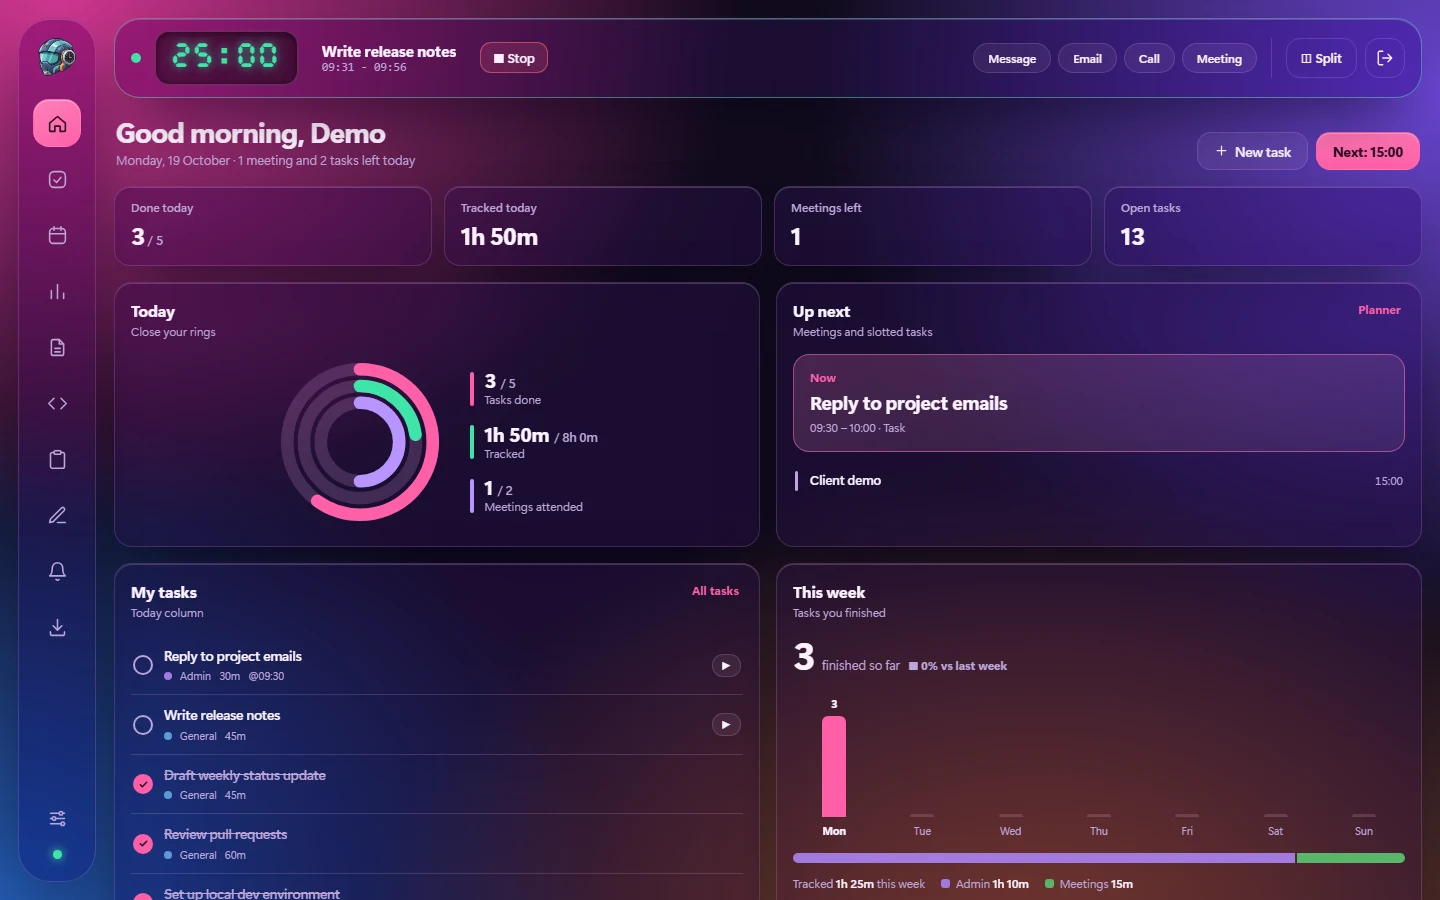
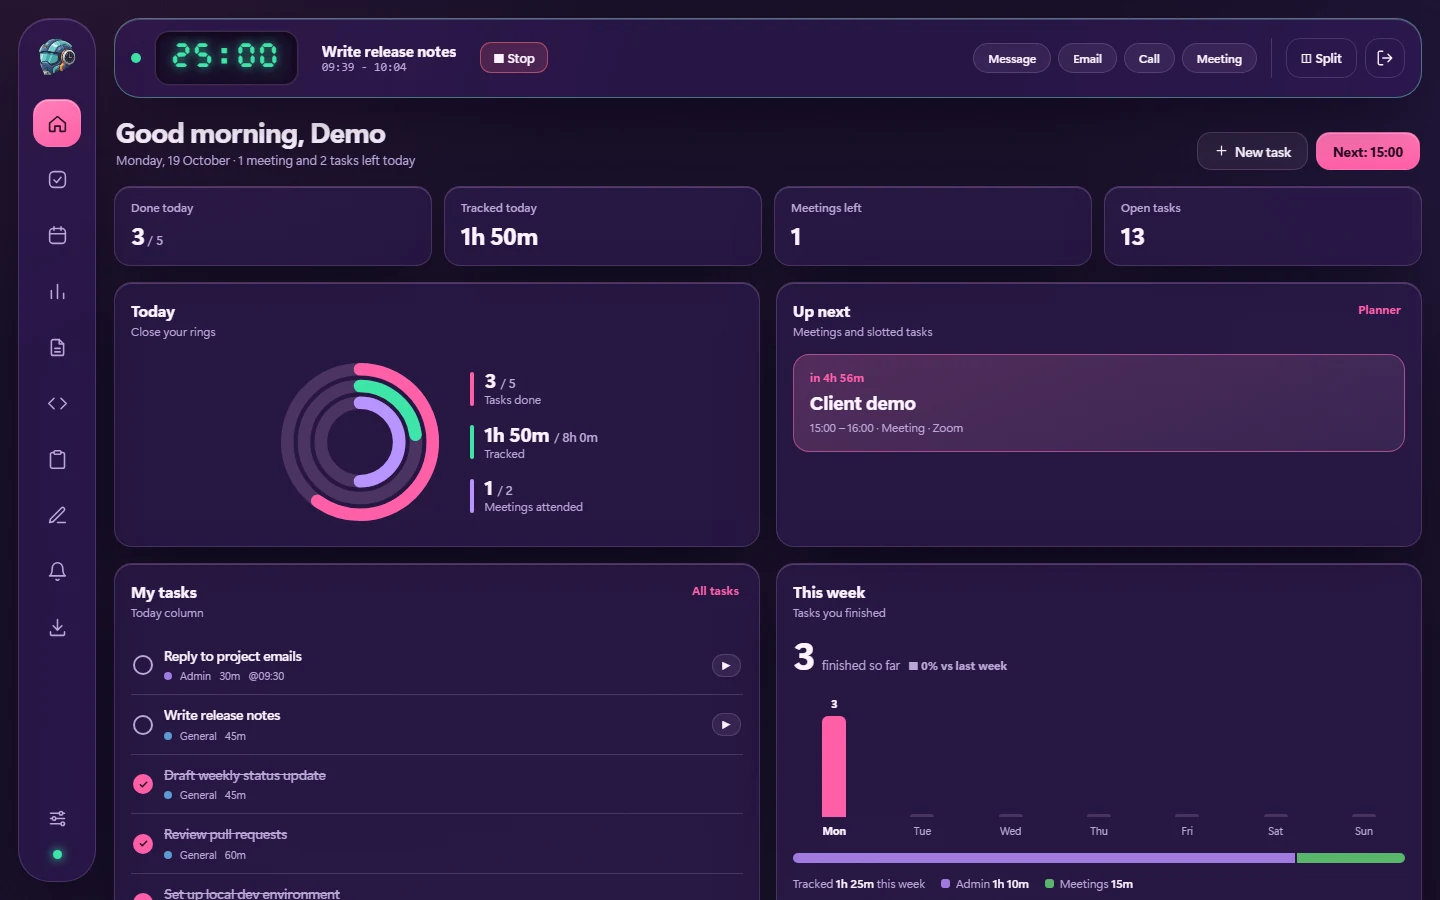
Bloom: plain deep-plum background, colour kept in the accent and charts
The glowing lights behind the page are gone (and with them the extra panel
frosting they needed); Bloom is now a flat plum background with the pink
accent, rings and charts carrying the colour. Gallery and changelog updated.

diff --git a/static/index.html b/static/index.html
@@ -65,15 +65,15 @@
   --shadow:0 24px 60px -24px rgba(0,0,0,.8);
 }
 [data-theme="bloom"]{
-  /* the colourful one: magenta, violet, blue and orange light behind deep-plum glass */
+  /* the colourful one: a plain deep-plum background, with the colour in the accent, rings and charts */
   color-scheme:dark;
-  --bg:#0b0518; --surface:rgba(38,18,66,.42); --surface-strong:rgba(26,12,50,.93);
+  --bg:#130a24; --surface:rgba(48,28,82,.62); --surface-strong:rgba(32,17,58,.94);
   --surface2:rgba(255,215,255,.075); --line:rgba(255,190,255,.17); --hi:rgba(255,220,255,.20);
   --text:#fcf2ff; --muted:#bca5d9; --accent:#ff5fa8; --accent-text:#2c0a1f;
   --cat-general:#7aa7ff; --cat-secops:#ff7a8a; --cat-change:#b794ff;
   --cal:#5a4aa6; --danger:#ff6b7f; --ok:#3ee6a8; --lcd-bg:rgba(0,0,0,.40);
-  --orb1:rgba(255,60,170,.80); --orb2:rgba(125,80,255,.80); --orb3:rgba(255,140,60,.60); --orb4:rgba(40,130,255,.64);
-  --shadow:0 24px 60px -24px rgba(8,0,24,.85);
+  --orb1:rgba(255,95,168,.07); --orb2:rgba(125,80,255,.07); --orb3:rgba(255,255,255,.02);
+  --shadow:0 24px 60px -24px rgba(6,0,18,.85);
 }
 [data-font="sans"]{ --ff:"Inter","SF Pro Display","Segoe UI Variable Display","Segoe UI",system-ui,-apple-system,Roboto,sans-serif; }
 [data-font="mono"]{ --ff:ui-monospace,"Cascadia Code","SF Mono",Menlo,Consolas,monospace; }
@@ -100,14 +100,6 @@ body::before{content:"";position:fixed;inset:0;z-index:-1;pointer-events:none;
     radial-gradient(60vmax 46vmax at 6% -6%, var(--orb1), transparent 62%),
     radial-gradient(52vmax 44vmax at 104% 16%, var(--orb2), transparent 62%),
     radial-gradient(70vmax 46vmax at 42% 112%, var(--orb3), transparent 62%),
-    var(--bg)}
-/* Bloom paints four larger, brighter lights than the other themes */
-body[data-theme="bloom"]::before{background:
-    url("/static/grain.svg"),
-    radial-gradient(72vmax 56vmax at 4% 0%, var(--orb1), transparent 66%),
-    radial-gradient(66vmax 58vmax at 100% 10%, var(--orb2), transparent 66%),
-    radial-gradient(72vmax 52vmax at 72% 108%, var(--orb3), transparent 66%),
-    radial-gradient(64vmax 52vmax at 0% 100%, var(--orb4), transparent 66%),
     var(--bg)}
 ::selection{background:color-mix(in srgb,var(--accent) 45%,transparent)}
 ::-webkit-scrollbar{width:10px;height:10px}
@@ -424,8 +416,6 @@ input.scrRename{font-size:12px;padding:1px 5px;width:120px;min-width:0}
 
 [data-theme="aurora"] option{background:#0f2028;color:#e8f4f6}
 [data-theme="bloom"] option{background:#1d0f36;color:#fcf2ff}
-/* the colour is strong enough that panels need their own frosting to stay readable */
-body[data-theme="bloom"] :is(.panel,.col,.stat,.filterBar,#timeline){-webkit-backdrop-filter:blur(18px) saturate(140%);backdrop-filter:blur(18px) saturate(140%)}
 
 /* ---- page headers, stat tiles, segmented controls (Dashboard / Tasks / Insights / Settings) ---- */
 .pageHead{display:flex;align-items:flex-end;gap:12px;flex-wrap:wrap;margin:2px 2px 16px}
@@ -654,8 +644,7 @@ main.split #dashGrid,main.split #insGrid{grid-template-columns:minmax(0,1fr)}
 .themeTile .pvbox{display:block;color:var(--text)}
 .themeTile .pv{display:block;position:relative;height:64px;
   background:radial-gradient(120% 90% at 0% 0%,var(--orb1),transparent 60%),radial-gradient(100% 90% at 100% 20%,var(--orb2),transparent 60%),
-    radial-gradient(120% 100% at 40% 120%,var(--orb3),transparent 60%),
-    radial-gradient(90% 90% at 0% 110%,var(--orb4,transparent),transparent 60%),var(--bg)}
+    radial-gradient(120% 100% at 40% 120%,var(--orb3),transparent 60%),var(--bg)}
 .themeTile .pv i{position:absolute;background:var(--surface);border:1px solid var(--line)}
 .themeTile .pv .r{left:7px;top:7px;bottom:7px;width:12px;border-radius:7px}
 .themeTile .pv .c1{left:26px;top:7px;right:7px;height:16px;border-radius:6px}

diff --git a/CHANGELOG.md b/CHANGELOG.md
@@ -577,9 +577,8 @@ Includes everything in 2.7.0.
 
 ## Bloom theme
 
-- **FEATURE:** A sixth theme, **Bloom**: four large magenta, violet, blue and
-  orange lights behind deep-plum glass, with a pink accent. Its panels carry
-  their own frosting so text stays readable over the colour. Pick it in
-  Settings -> Appearance (the theme previews show it); as with Aurora, 2.x
-  falls back to Dark for an account set to it. The README gallery now shows all
-  six themes.
+- **FEATURE:** A sixth theme, **Bloom**: a plain deep-plum background with the
+  colour in the pink accent, the progress rings and the charts, rather than in
+  glowing lights behind the page. Pick it in Settings -> Appearance (the theme
+  previews show it); as with Aurora, 2.x falls back to Dark for an account set
+  to it. The README gallery now shows all six themes.
